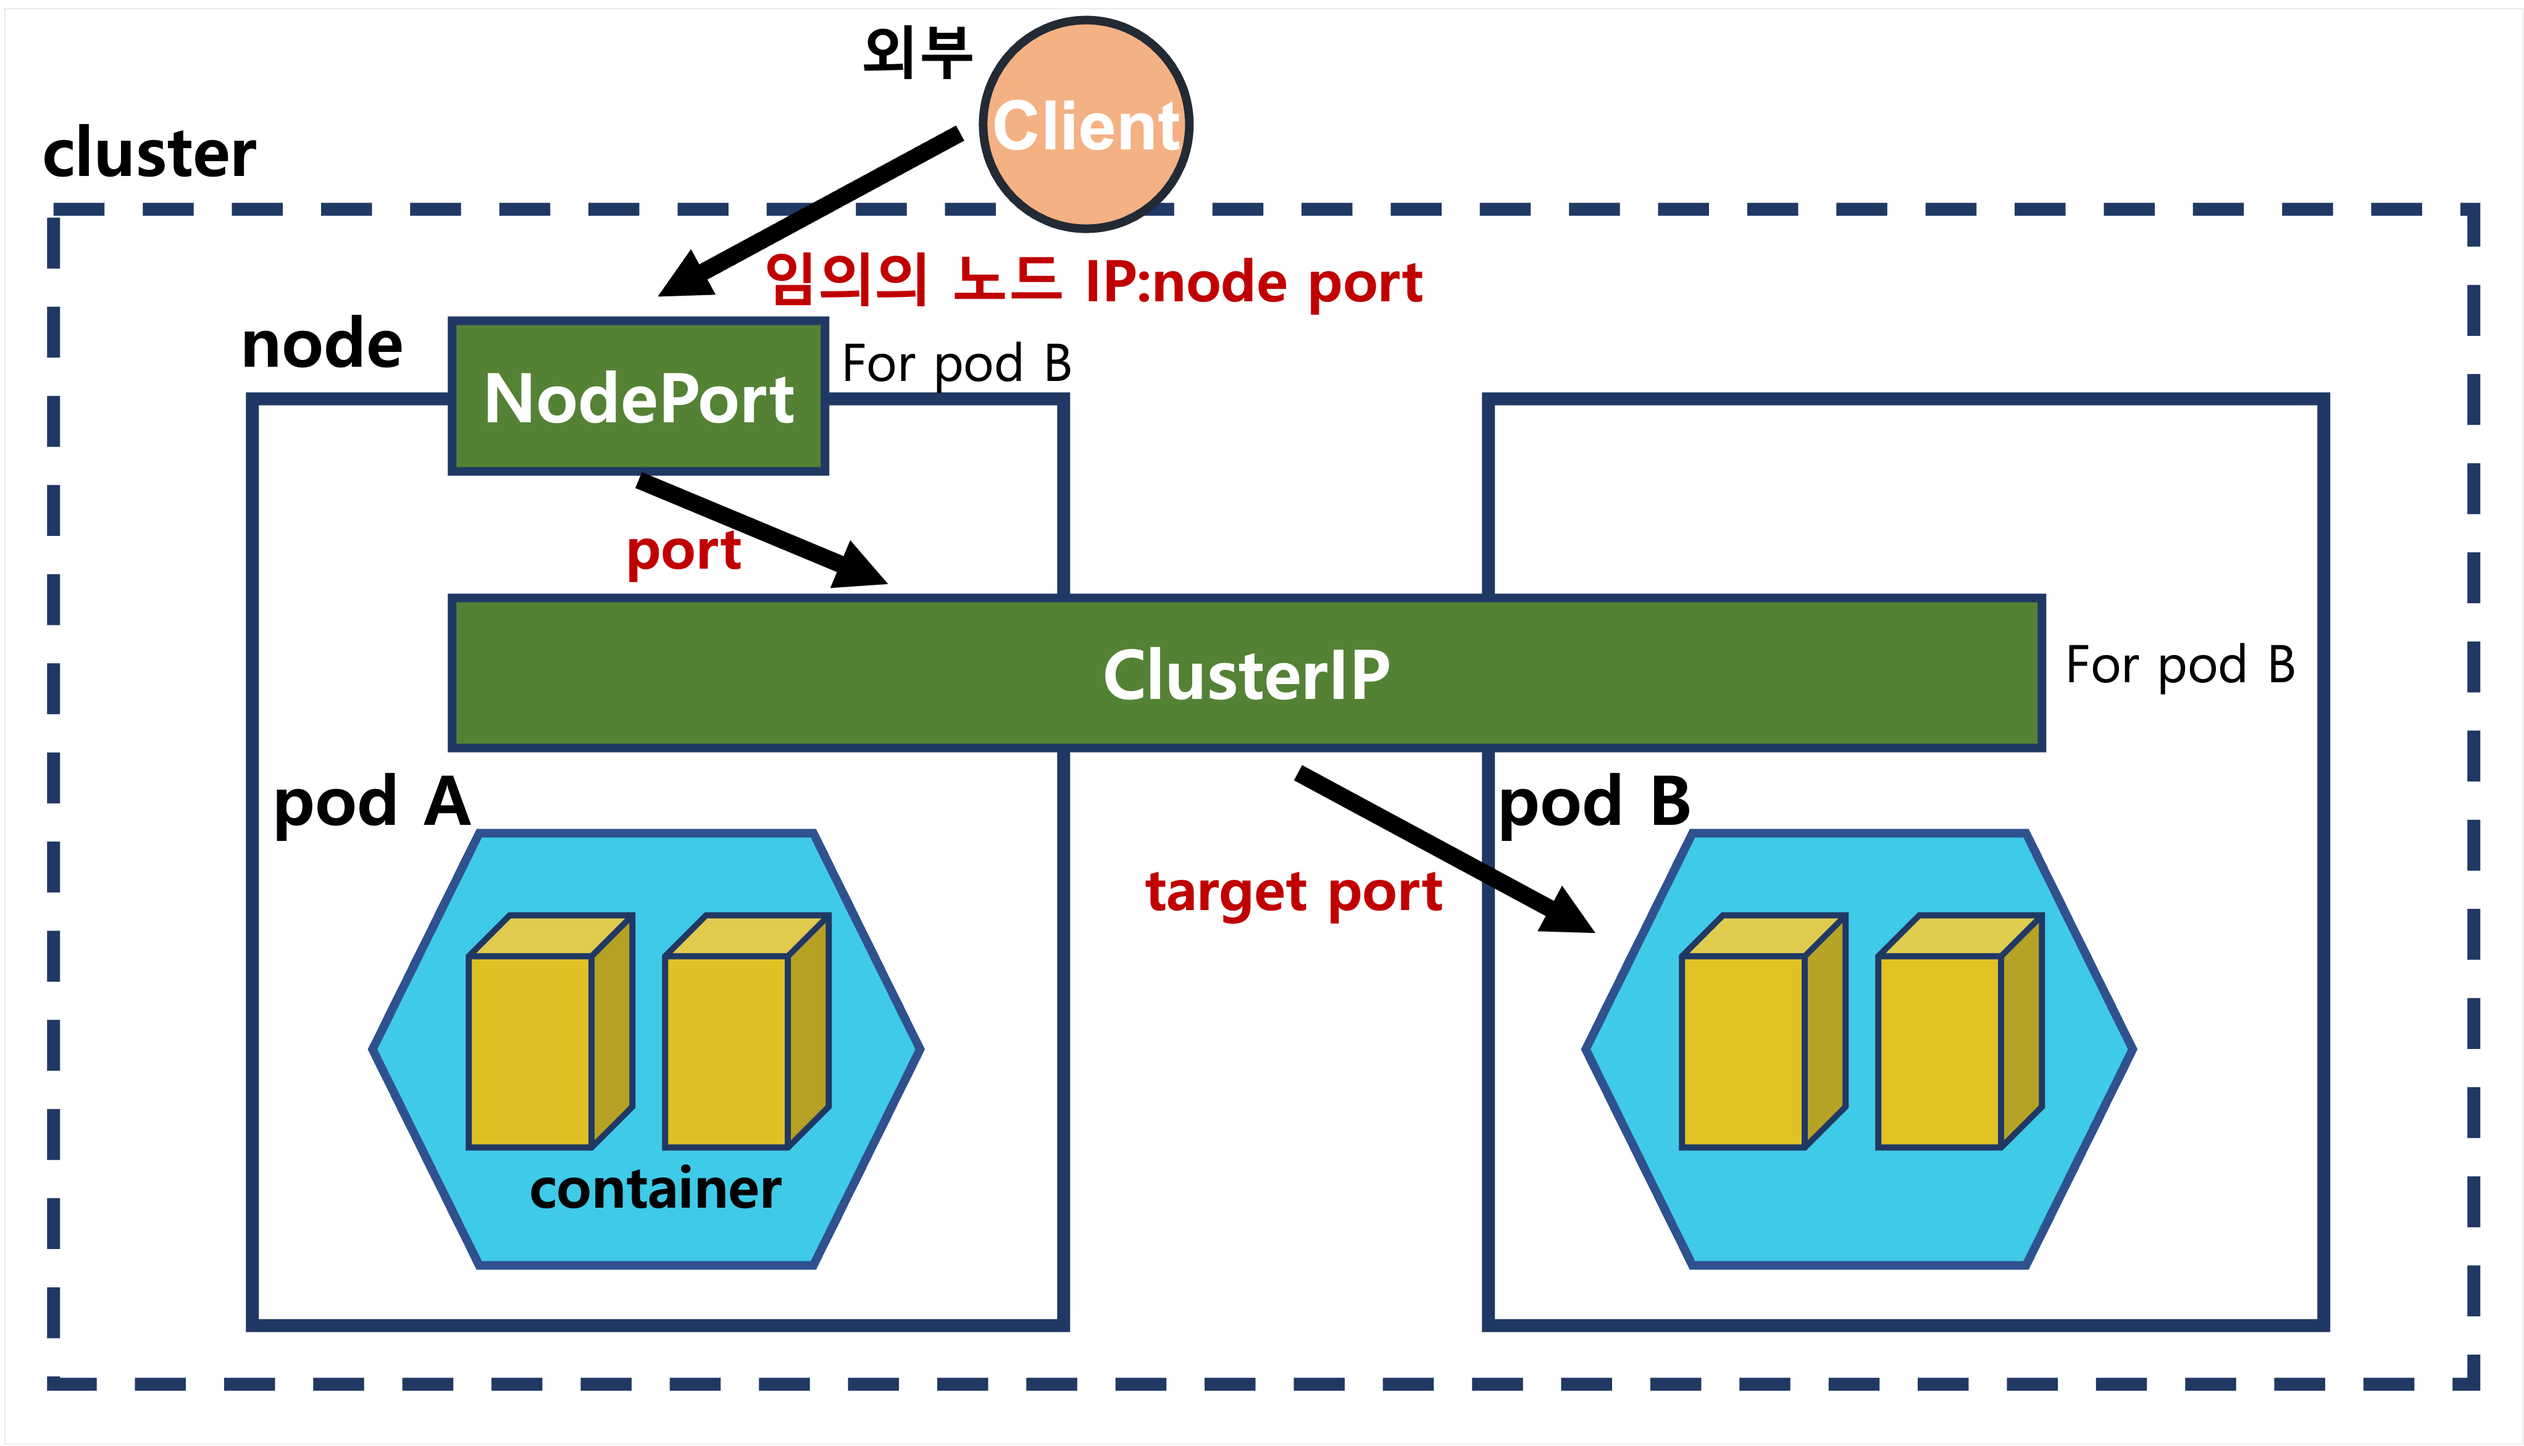
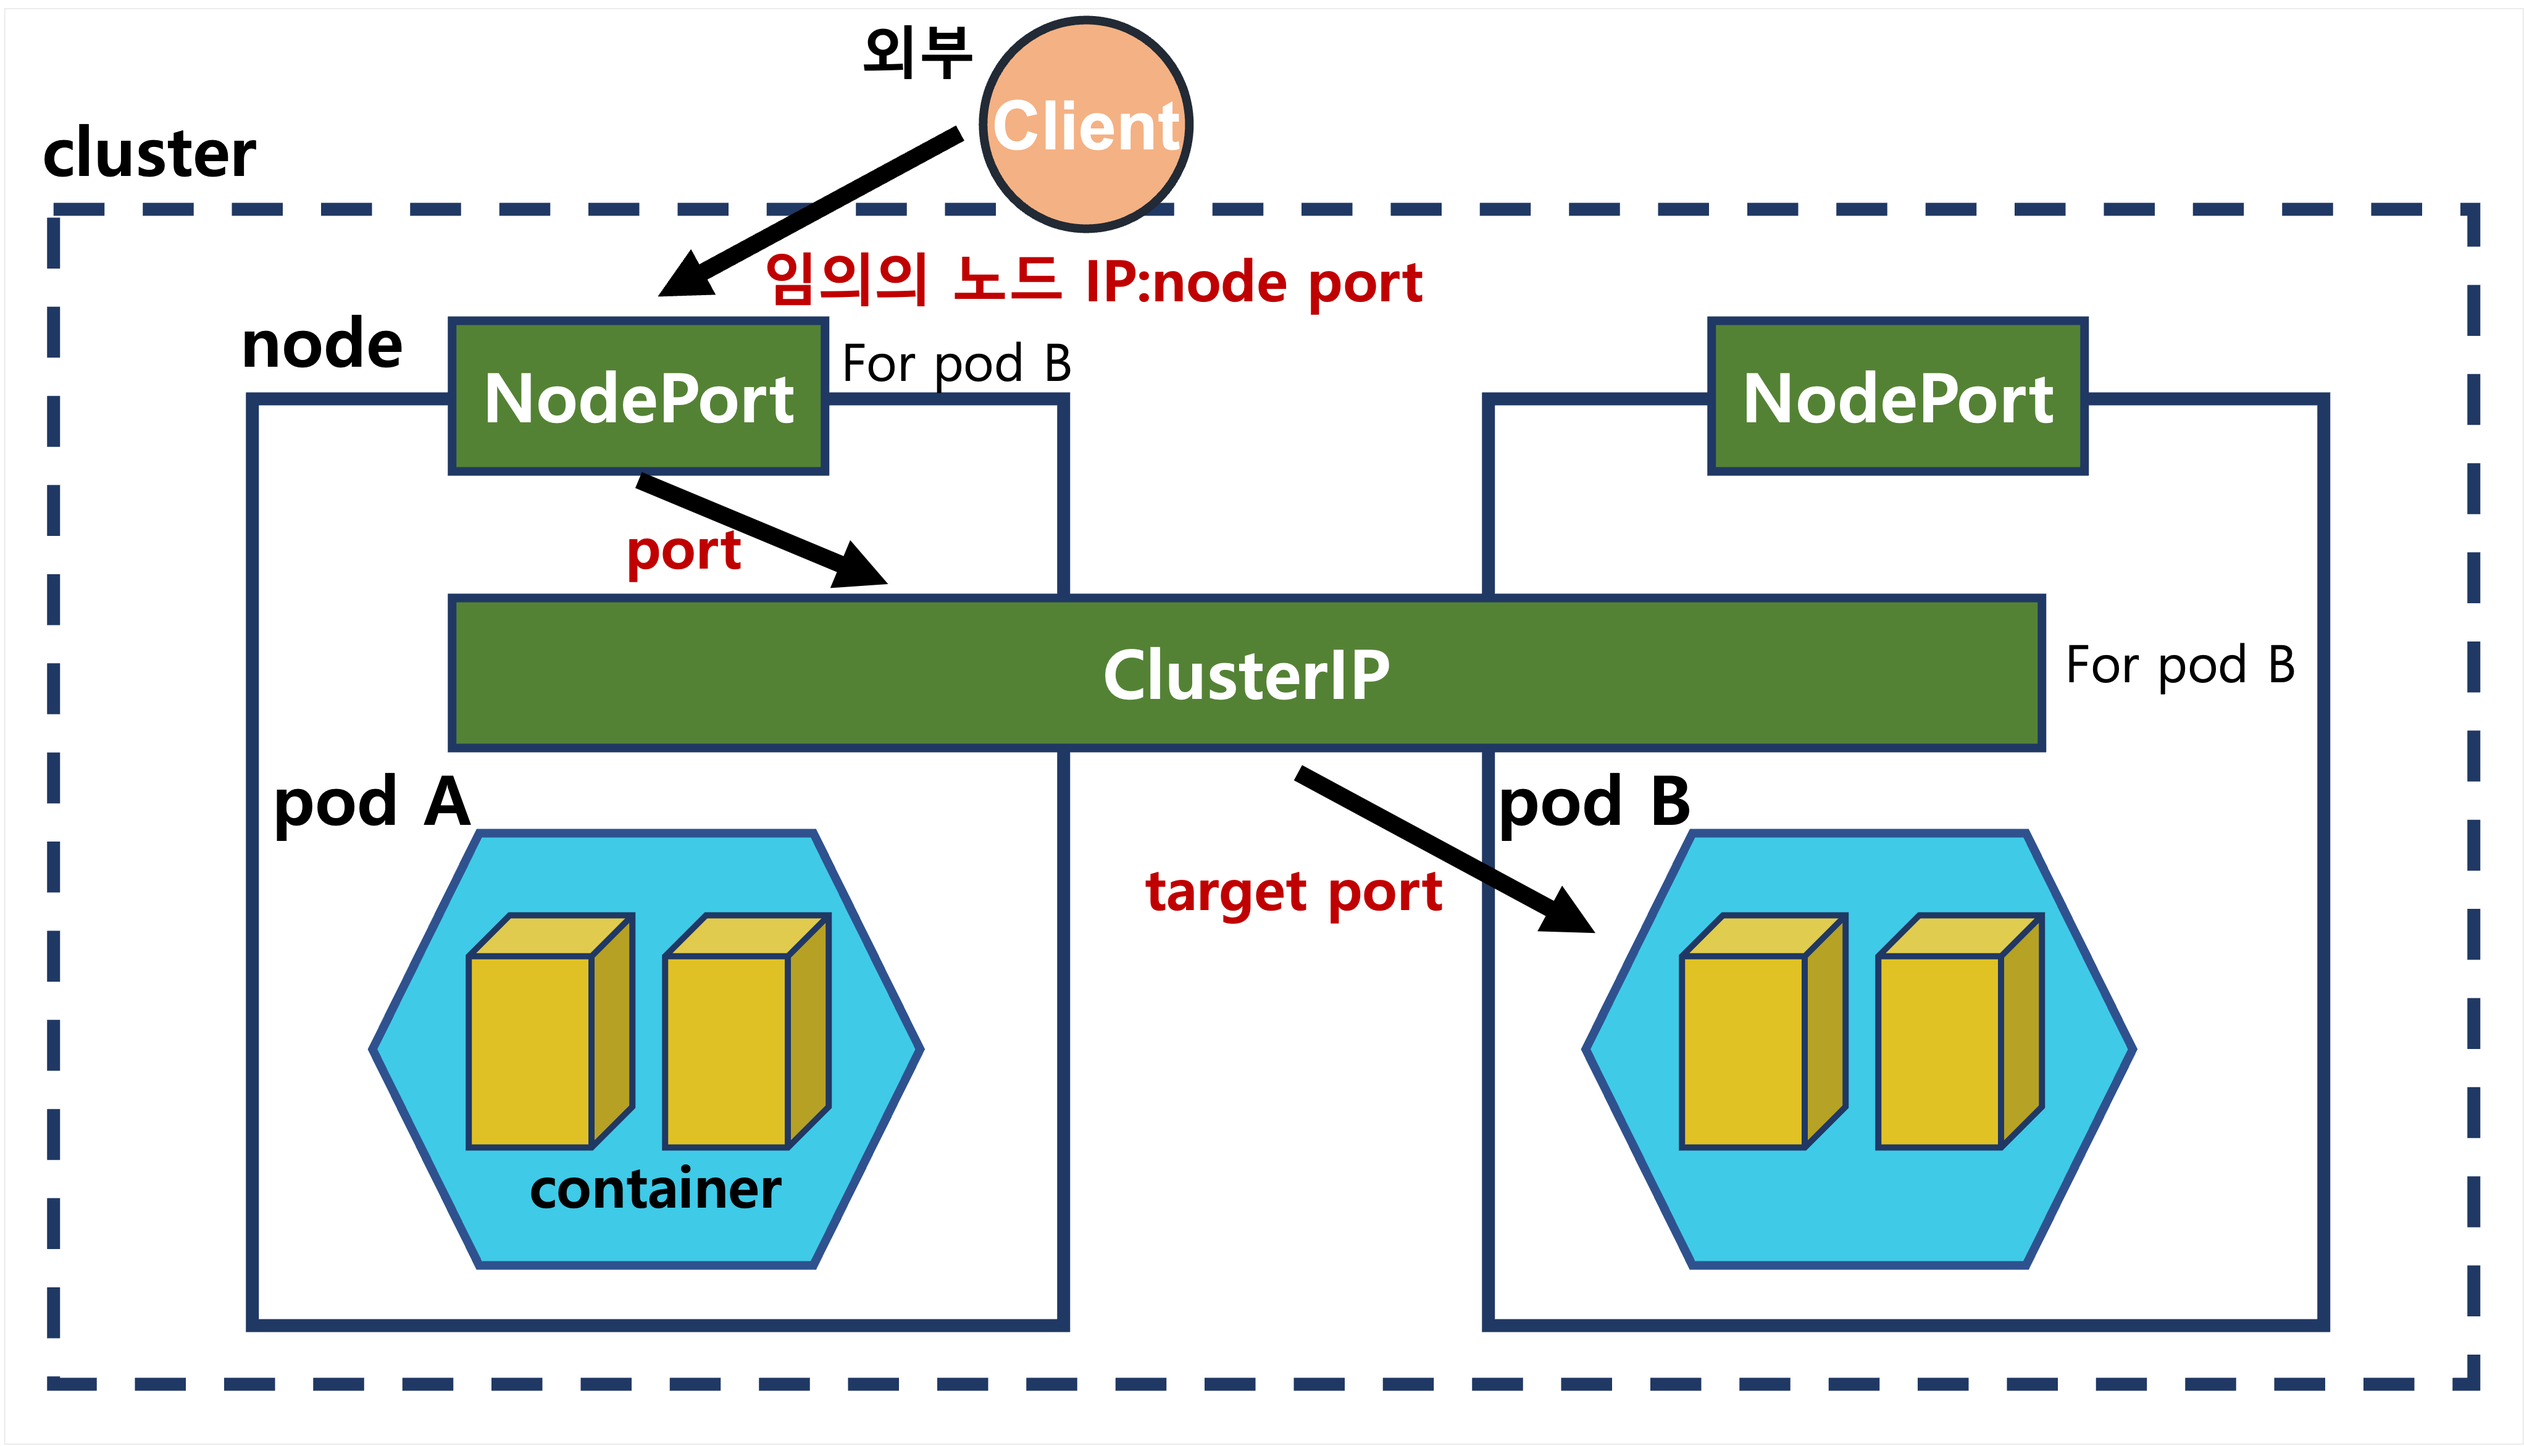
up

Changed region(s): [[0.6524, 0.2182, 0.8388, 0.3429]]

diff --git a/_posts/kubernetes/2022-01-23-kubernetes-series3.md b/_posts/kubernetes/2022-01-23-kubernetes-series3.md
@@ -22,27 +22,63 @@ tags: Kubernetes
 
 ![](../../images/kube_25.png)  
 
-이렇게 쿠버네티스에서는 클러스터 내부에서는 네트워크가 자동으로 구성되어 Service 리소스를 이용하지 않고도 파드 간 통신이 가능합니다. 그러나 Service 리소스를 이용하면 다음과 같은 장점을 얻을 수 있습니다.  
+# Network 오브젝트를 사용하는 이유
 
-- 로드 밸런싱: 특정 파드 IP 주소를 선택해 통신하는 방법은 안좋음
-- 서비스 디스커버리: IP 주소를 이용하는 것보다 서비스명으로 관리하는 것이 코드로 관리하기 더 좋음
-- 클러스터 내부 DNS
-- 클러스터 외부 클라이언트에 서비스 제공
+이렇게 쿠버네티스에서는 클러스터 내부에서는 네트워크가 자동으로 구성되어 Service 리소스를 이용하지 않고도 파드 간 통신이 가능합니다. 그러면 Network 오브젝트를 굳이 사용하는 이유는 뭘까요?  
+
+## 외부 클라이언트와의 통신
+
+- 파드가 가지고 있는 IP는 클러스터 내부에서 유효한 IP 주소
+- 클러스터 외부에 있는 클라이언트와 통신하기 위해서는 **외부로 노출시킬 IP 주소**가 필요하다
+- 이를 위해 쿠버네티스에서는 LoadBalancer, Ingress를 제공한다
+
+## 파드 집합에 대한 엔드포인트 제공
+
+- 파드 IP 주소로 통신한다는 말은 특정 파드 한 개 하고만 통신을 한다는 뜻이다
+- 이렇게 되면, 해당 파드가 위치한 노드가 장애가 난 경우, 대처가 불가능하다
+- 트래픽도 모두 그 파드 한 곳에만 모두 몰리게 될 것이다
+- 이를 해결하기 위해서 쿠버네티스 서비스 오브젝트는 **파드 집합에 대한 단일 엔드포인트**를 제공한다
+
+## 파드 엔드포인트 추상화
+
+- 파드는 중간에 장애가 날 경우, 해당 파드를 종료하고 새로운 파드를 실행한다
+- 또한 중간에 업데이트가 발생하면, 또 새로운 파드를 실행한다
+- 이렇게 파드는 계속 변경되기 때문에 파드 IP 주소를 직접 사용할 경우 계속 수동으로 업데이트 해줘야 한다
+
+## kube-dns
+
+![](/images/kube-dns.webp)
+
+- 쿠버네티스는 서비스명으로 통신을 제공하기 위해 마스터 노드에 kube-dns라는 서버를 가지고 있다
+- 쿠버네티스는 서비스 오브젝트 정보를 kube-dns에 저장하고 있다
+- 워커 노드에 실행되고 있는 컨테이너들은 `/etc/resolv.conf` 파일에 이 kube-dns 네임서버 정보를 가지고 있다
+- 컨테이너는 서비스 디스커버리가 필요하면 `/etc/resolv.conf` 파일에 있는 네임서버(kube-dns)로 이동하고, 네임서버에 저장되어 있는 서비스를 디스커버리한다
 
 # ClusterIP
-ClusterIP는 서비스의 기본 타입입니다. ClusterIP 서비스를 생성하면 **클러스터 내부에서만 통신 가능한 가상 IP**가 할당됩니다. kube-proxy는 노드 안에서 ClusterIP에서 들어온 트래픽을 원하는 파드로 전송합니다.  
+
+- ClusterIP는 서비스의 기본 타입
+- ClusterIP 서비스를 생성하면 **클러스터 내부에서만 통신 가능한 가상 IP**가 할당 
+- kube-proxy는 노드 안에서 ClusterIP에서 들어온 트래픽을 원하는 파드로 전송
+- (위의 장점중 파드 집합에 대한 엔드포인트, 엔드포인트 추상화 이점을 제공)
 
 ![](../../images/kube_clusterip.png)
 
 (개발 단계에서는 `kubectl port-forward service/<서비스명> <target port>:<service port>`로 포트 포워딩해서 `localhost:<target port>` 로 접근 가능)
 
 # NodePort  
-NodePort는 모든 노드의 IP주소:포트에서 수신한 트래픽을 컨테이너에 전송하는 형태로 외부와 통신할 수 있습니다. NodePort는 전체 노드 N개 중 임의의 노드의 IP주소를 외부에 노출합니다. 그럼에도 ClusterIP를 통해 다른 노드의 파드로 통신하는데에는 문제 없습니다. 그러나 **노출된 IP주소의 노드는 단일 장애점(Single Point of Failure)**이 되기 때문에 NodePort만을 이용해 외부와 통신하는 것은 분명한 한계점이 있습니다. 또한 NodePort는 쿠버네티스에서 **지정한 범위(30000~32767)** 안에서만 지정할 수 있기 때문에 서비스로 활용하기에는 포트 번호가 예쁘지는 않습니다. 노드 포트 번호는 범위 안에서 직접 지정 가능하지만 쿠버네티스에서는 노드 포트 번호를 직접 지정하는 것을 지양합니다.  
+- 외부에서 접근할 수 있도록 모든 노드에 `node port` 포트를 열어둔다
+- 클러스터 외부의 클라이언트는 `<임의의 노드 IP>:node port` 로 클러스터와 통신
+- 해당 트래픽은 ClusterIP 서비스 오브젝트에게 전달되고, ClusterIP 서비스 오브젝트를 이를 파드 집합으로 포워딩
+- **노출된 IP주소의 노드는 단일 장애점(Single Point of Failure)**이 된다
+- NodePort는 쿠버네티스에서 **지정한 범위(30000~32767)** 안에서만 지정 가능
+- 노드 포트 번호는 범위 안에서 직접 지정 가능하지만 쿠버네티스에서는 노드 포트 번호를 직접 지정하는 것을 지양 
 
 ![](/images/kube_node_port.png)
 
 # LoacBalancer  
-LoadBalancer에서는 NodePort와 다르게 별도로 외부 로드 밸런서를 사용하기 때문에 노드 장애가 발생해도 크게 문제가 되지 않습니다. 노드에 장애가 발생한 경우 해당 노드를 목적지에서 제외 처리하고 트래픽을 전송하지 않게됩니다. LoadBalancer서비스를 생성하면 컨테이너 내부에서의 통신을 위해 ClusterIP도 자동 할당됩니다. 실제 서비스 운영 환경에서는 외부로부터 요청을 수신하는 External IP 주소를 DNS 설정 등의 이유로 고정하는 것을 선호하고 LoadBalancer 서비스는 이를 지원합니다.  
+
+- 외부에서 접근 가능한 External IP를 할당 받는다
+- LoadBalancer서비스를 생성하면 컨테이너 내부에서의 통신을 위해 ClusterIP도 자동 생성 (Interal IP)
 
 ![](/images/kube_load_balancer.png)
  

diff --git a/_posts/kubernetes/2022-01-29-kubernetes-series9.md b/_posts/kubernetes/2022-01-29-kubernetes-series9.md
@@ -1,0 +1,19 @@
+---
+layout: post
+title:  'Kubernetes Series [Part9]: Service'
+description: 
+date:   2022-01-29 15:01:35 +0300
+image:  '/images/kubernetes_logo.png'
+logo_image:  '/images/kubernetes_logo.png'
+categories: devops
+tags: Kubernetes
+---
+
+---
+**Table of Contents**
+{: #toc }
+*  TOC
+{:toc}
+
+---
+
